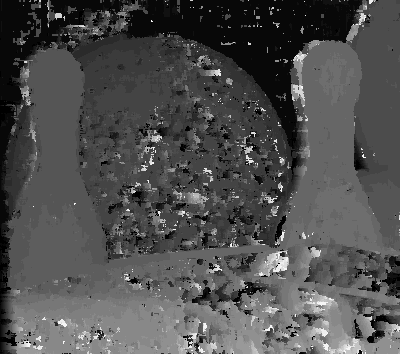
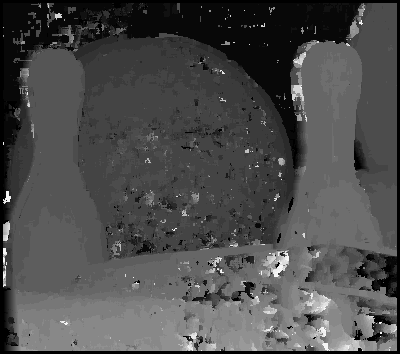
Added a license file, reworked main loop
The main matching loop now closely resembles my C code main loop. This
is not necessarily a good thing, Pythonically speaking, but I intend to
leverage Numpy more in the main loop soon.

diff --git a/stereomatch_SSD.py b/stereomatch_SSD.py
@@ -1,108 +1,66 @@
 #!/usr/bin/env python
-
-# -------------------------------------------------------------------
-# Simple sum of squared differences (SSD) stereo-matching 
-# -------------------------------------------------------------------
-
-# The MIT License
+# --------------------------------------------------------------------
+# Simple sum of squared differences (SSD) stereo-matching using Numpy
+# --------------------------------------------------------------------
 
 # Copyright (c) 2016 David Christian
+# Licensed under the MIT License
 
-# Permission is hereby granted, free of charge, to any person obtaining a copy
-# of this software and associated documentation files (the "Software"), to deal
-# in the Software without restriction, including without limitation the rights
-# to use, copy, modify, merge, publish, distribute, sublicense, and/or sell
-# copies of the Software, and to permit persons to whom the Software is
-# furnished to do so, subject to the following conditions:
-
-# The above copyright notice and this permission notice shall be included in
-# all copies or substantial portions of the Software.
-
-# THE SOFTWARE IS PROVIDED "AS IS", WITHOUT WARRANTY OF ANY KIND, EXPRESS OR
-# IMPLIED, INCLUDING BUT NOT LIMITED TO THE WARRANTIES OF MERCHANTABILITY,
-# FITNESS FOR A PARTICULAR PURPOSE AND NONINFRINGEMENT. IN NO EVENT SHALL THE
-# AUTHORS OR COPYRIGHT HOLDERS BE LIABLE FOR ANY CLAIM, DAMAGES OR OTHER
-# LIABILITY, WHETHER IN AN ACTION OF CONTRACT, TORT OR OTHERWISE, ARISING FROM,
-# OUT OF OR IN CONNECTION WITH THE SOFTWARE OR THE USE OR OTHER DEALINGS IN
-# THE SOFTWARE.
-
+import sys
 import numpy as np
 from PIL import Image
 
-def stereo_match(left_img, right_img):
+def stereo_match(left_img, right_img, kernel, max_offset):
     # Load in both images, assumed to be RGBA 8bit per channel images
-    left_img = Image.open(left_img)
+    left_img = Image.open(left_img).convert('L')
     left = np.asarray(left_img)
-    right_img = Image.open(right_img)
-    right = np.asarray(right_img)
-
-    # Initial squared differences
-    w, h = left_img.size  # assume that both images are same size
-    sd = np.empty((w, h), np.uint8)
-    sd.shape = h, w
-
-    # SSD support window (kernel)
-    win_ssd = np.empty((w, h), np.uint16)
-    win_ssd.shape = h, w
-	
-    # Depth (or disparity) map
-    depth = np.empty((w, h), np.uint8)
-    depth.shape = h, w
-
-    # Minimum ssd difference between both images
-    min_ssd = np.empty((w, h), np.uint16)
-    min_ssd.shape = h, w
-	min_ssd.fill(65535)
+    right_img = Image.open(right_img).convert('L')
+    right = np.asarray(right_img)    
+    w, h = left_img.size  # assume that both images are same size   
     
-    max_offset = 30
-    offset_adjust = 255 / max_offset 
-
-    # Create ranges now instead of per loop
-    y_range = range(h)
-    x_range = range(w)
-    x_range_ssd = range(w)
-
-    # u and v support window
-    window_range = range(-3, 3) # 6x6
-
-    # Main loop....
-    for offset in range(max_offset):
-        # Create initial image of squared differences between left and right image at the current offset
-        for y in y_range:
-            for x in x_range_ssd:
-                if x - offset > 0:
-                    diff = left[y, x, 0] - right[y, x - offset, 0]
-                    sd[y, x] = diff * diff
-
-	# Sum the squared differences over a support window at this offset
-        for y in y_range:
-            for x in x_range:
-                sum_sd = 0
-                for i in window_range:
-                    for j in window_range:
-                        # TODO: replace this expensive check by surrounding image with buffer / padding
-                        if (-1 < y + i < h) and (-1 < x + j < w):
-                            sum_sd += sd[y + i, x + j]
-
-                # Store the sum in the window SSD image
-                win_ssd[y, x] = sum_sd
-
-        # Update the min ssd diff image with this new data
-        for y in y_range:
-            for x in x_range:
-                # Is this new windowed SSD pixel a better match?
-                if win_ssd[y, x] < min_ssd[y, x]:
-                    # If so, store it and add to the depth map      
-                    min_ssd[y, x] = win_ssd[y, x]
-                    depth[y, x] = offset * offset_adjust
-
+    # Depth (or disparity) map
+    depth = np.zeros((w, h), np.uint8)
+    depth.shape = h, w
+       
+    kernel_half = int(kernel / 2)    
+    offset_adjust = 255 / max_offset  # this is used to map depth map output to 0-255 range
+      
+    for y in range(kernel_half, h - kernel_half):      
+        sys.stdout.write("\r" + "Processing Y " + str(y) + " of " + str(h))
+        sys.stdout.flush()
+                
+        for x in range(kernel_half, w - kernel_half):
+            best_offset = 0
+            prev_ssd = 65534
+            
+            for offset in range(max_offset):               
+                ssd = 0
+                ssd_temp = 0                            
+                
+                # v and u are the x,y of our local window search, used to ensure a good 
+                # match- going by the squared differences of two pixels alone is insufficient, 
+                # we want to go by the squared differences of the neighbouring pixels too
+                for v in range(-kernel_half, kernel_half):
+                    for u in range(-kernel_half, kernel_half):
+					    # iteratively sum the sum of squared differences value for this block
+						# left[] and right[] are arrays of uint8, so converting them to int saves
+						# potential overflow 
+                        ssd_temp = int(left[y+v, x+u]) - int(right[y+v, (x+u) - offset])  
+                        ssd += ssd_temp * ssd_temp              
+                
+                # if this value is smaller than the previous ssd at this block
+                # then it's theoretically a closer match. Store this value against
+                # this block..
+                if ssd < prev_ssd:
+                    prev_ssd = ssd
+                    best_offset = offset
+                            
+            # set depth output for this x,y location to the best match
+            depth[y, x] = best_offset * offset_adjust
+                                
     # Convert to PIL and save it
     Image.fromarray(depth).save('depth.png')
-<<<<<<< HEAD
-	
-=======
 
->>>>>>> origin/master
 if __name__ == '__main__':
-    stereo_match("view0.png", "view1.png")
+    stereo_match("view0.png", "view1.png", 6, 30)  # 6x6 local search kernel, 30 pixel search range
 
